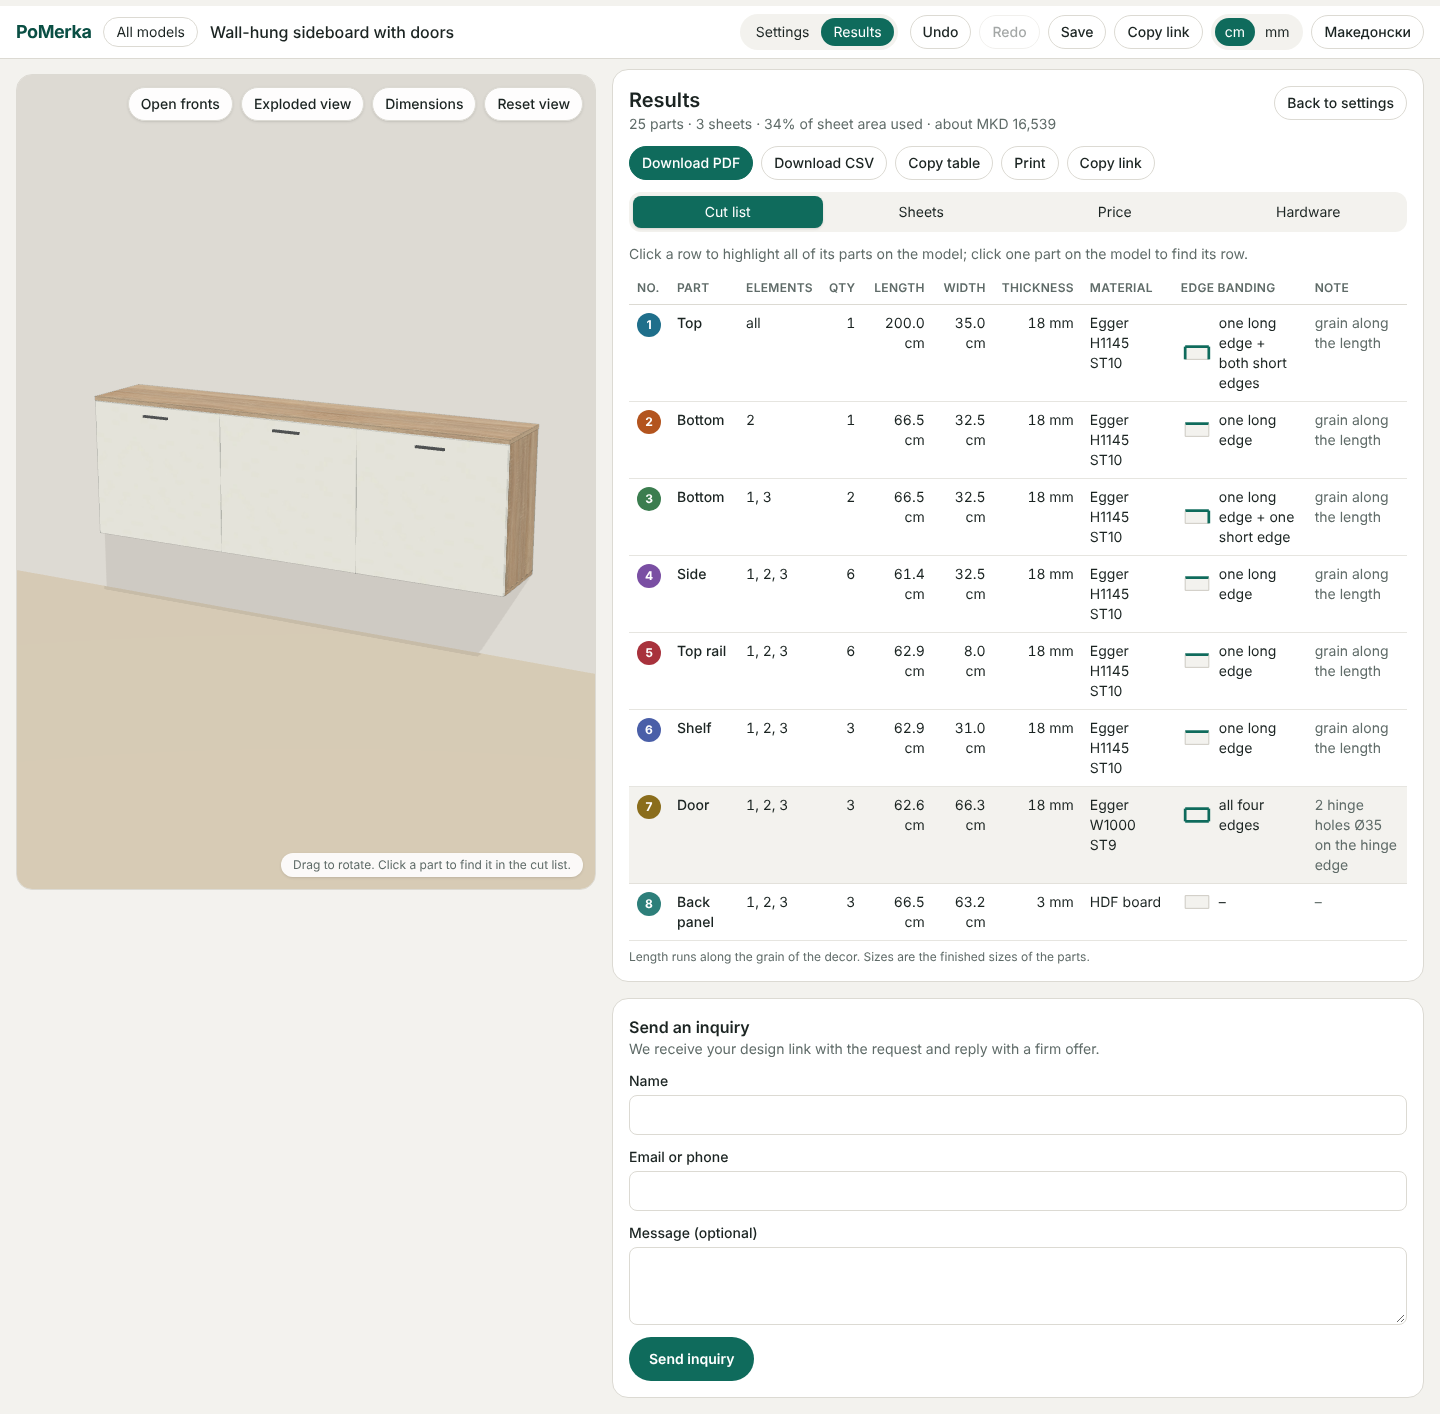
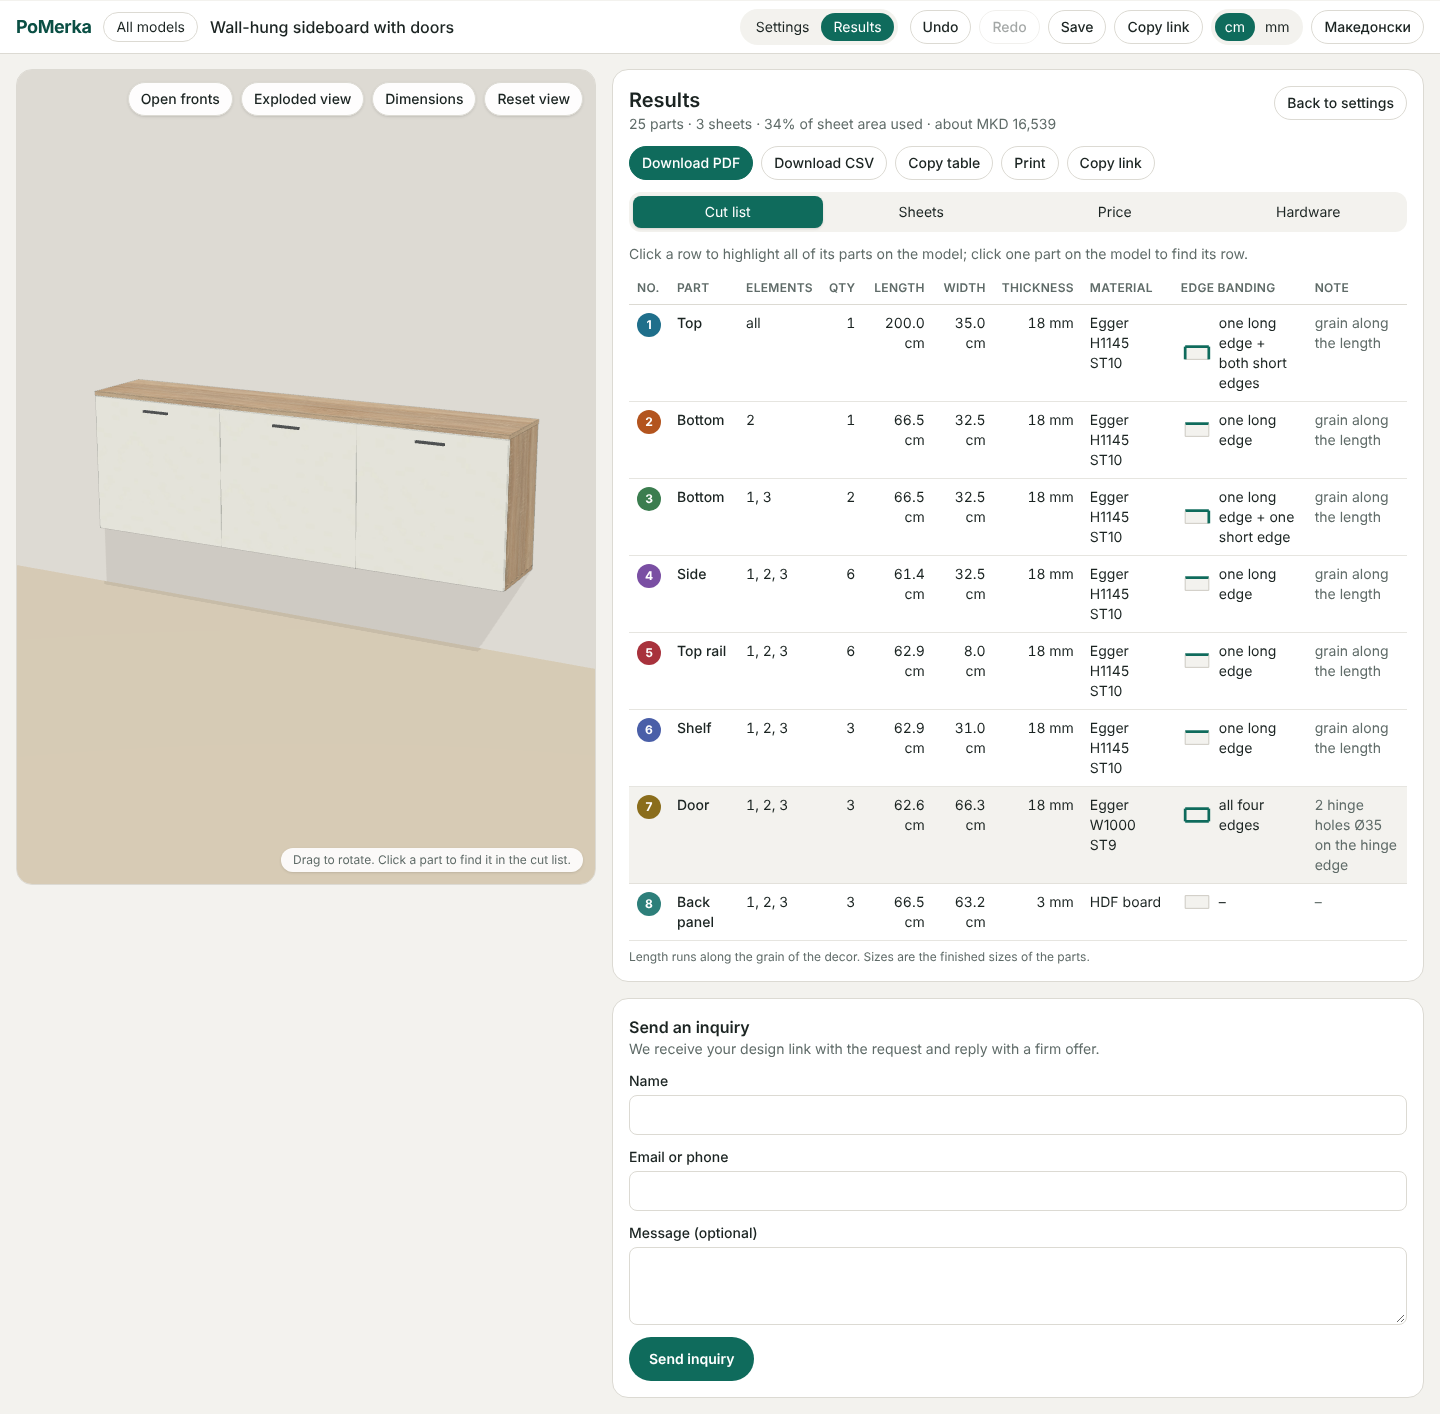
Keep element widths the customer typed when another element changes
Resizing element 2 used to re-spread the difference over every other
element, undoing a width just typed for element 1. Typed widths are now
kept and only the untouched elements take up the change; they give way only
when nothing else can. Each kept element shows a 'Let it adjust' link.

Claude-Session: https://claude.ai/code/session_015wZDanh1oyKGHpGVLFR7yh

diff --git a/src/store/configurator.ts b/src/store/configurator.ts
@@ -24,6 +24,8 @@ interface State {
   /** Part ids highlighted in the viewer and the cut list. */
   selected: string[];
   notices: Notice[];
+  /** Elements whose width the customer typed; later edits leave them alone where possible. */
+  pinned: number[];
   /** Field path → issue, for inputs whose typed value was rejected. */
   errors: Record<string, Issue>;
 
@@ -34,6 +36,7 @@ interface State {
   setElementCount: (count: number) => Issue[];
   setElementWidth: (index: number, width: number) => Issue[];
   equalise: () => void;
+  unpin: (index: number) => void;
   patchElement: (index: number, patch: Partial<ElementConfig>) => Issue[];
   patch: (patch: Partial<Config>) => Issue[];
   undo: () => void;
@@ -68,9 +71,10 @@ export const useConfigurator = create<State>((set, get) => {
     showDimensions: false,
     selected: [],
     notices: [],
+    pinned: [],
     errors: {},
 
-    load: (config, notice) => apply(config, { past: [], future: [], errors: {}, notices: notice ? [notice] : [] }),
+    load: (config, notice) => apply(config, { past: [], future: [], errors: {}, pinned: [], notices: notice ? [notice] : [] }),
 
     commit: (next) => {
       // Dependent values are brought back into range first (and reported), then the result is checked.
@@ -85,12 +89,26 @@ export const useConfigurator = create<State>((set, get) => {
     },
 
     setDimension: (key, value) => {
-      const { config, commit } = get();
+      const { config, commit, pinned } = get();
       if (key !== 'width') return commit({ ...config, [key]: value });
       const p = requireModel(config.model).params;
-      // Keep the customer's proportions when the overall width changes.
-      const widths = scaleWidths(config.elements.map((e) => e.width), value, p.elementMin);
-      return commit({ ...config, width: value, elements: config.elements.map((e, i) => ({ ...e, width: widths[i] ?? e.width })) });
+      const current = config.elements.map((e) => e.width);
+      // Elements the customer sized keep their width; the others take up the change in proportion.
+      const free = current.map((_, i) => i).filter((i) => !pinned.includes(i));
+      let widths: number[] | null = null;
+      if (free.length > 0 && free.length < current.length) {
+        const fixed = current.reduce((s, w, i) => (pinned.includes(i) ? s + w : s), 0);
+        const scaled = scaleWidths(free.map((i) => current[i] as number), value - fixed, p.elementMin);
+        if (value - fixed >= free.length * p.elementMin && scaled.every((w) => w >= p.elementMin && w <= p.elementMax)) {
+          widths = [...current];
+          free.forEach((i, k) => (widths![i] = scaled[k] as number));
+        }
+      }
+      const release = widths === null && pinned.length > 0;
+      widths ??= scaleWidths(current, value, p.elementMin);
+      const issues = commit({ ...config, width: value, elements: config.elements.map((e, i) => ({ ...e, width: widths![i] ?? e.width })) });
+      if (issues.length === 0 && release) set({ pinned: [] });
+      return issues;
     },
 
     setElementCount: (count) => {
@@ -103,25 +121,32 @@ export const useConfigurator = create<State>((set, get) => {
       const widths = distributeEqual(config.width, count);
       const template = model.defaults.elements[0] as ElementConfig;
       const elements = widths.map((width, i) => ({ ...(config.elements[i] ?? { ...template, shelves: Math.min(template.shelves, lim.maxShelves) }), width }));
-      return commit({ ...config, elements });
+      const issues = commit({ ...config, elements });
+      if (issues.length === 0) set({ pinned: [] });
+      return issues;
     },
 
     setElementWidth: (index, width) => {
-      const { config, commit } = get();
+      const { config, commit, pinned } = get();
       const p = requireModel(config.model).params;
-      const widths = resizeElement(config.elements.map((e) => e.width), index, width, p.elementMin);
-      if (!widths) {
-        const max = config.width - (config.elements.length - 1) * p.elementMin;
-        return [{ code: 'elementMin', path: `elements.${index}.width`, params: { min: p.elementMin, max } }];
+      const result = resizeElement(config.elements.map((e) => e.width), index, width, p.elementMin, pinned, p.elementMax);
+      if (!result) {
+        const max = Math.min(p.elementMax, config.width - (config.elements.length - 1) * p.elementMin);
+        return [{ code: width > p.elementMax ? 'elementMax' : 'elementMin', path: `elements.${index}.width`, params: { min: p.elementMin, max } }];
       }
-      return commit({ ...config, elements: config.elements.map((e, i) => ({ ...e, width: widths[i] ?? e.width })) });
+      const issues = commit({ ...config, elements: config.elements.map((e, i) => ({ ...e, width: result.widths[i] ?? e.width })) });
+      if (issues.length === 0) set({ pinned: result.released ? [index] : [...pinned.filter((i) => i !== index), index] });
+      return issues;
     },
 
     equalise: () => {
       const { config, commit } = get();
       const widths = distributeEqual(config.width, config.elements.length);
       commit({ ...config, elements: config.elements.map((e, i) => ({ ...e, width: widths[i] ?? e.width })) });
+      set({ pinned: [] });
     },
+
+    unpin: (index) => set((s) => ({ pinned: s.pinned.filter((i) => i !== index) })),
 
     patchElement: (index, patch) => {
       const { config, commit } = get();
@@ -134,14 +159,14 @@ export const useConfigurator = create<State>((set, get) => {
       const { past, future, config } = get();
       const previous = past[past.length - 1];
       if (!previous) return;
-      apply(previous, { past: past.slice(0, -1), future: [config, ...future], notices: [], errors: {} });
+      apply(previous, { past: past.slice(0, -1), future: [config, ...future], notices: [], errors: {}, pinned: [] });
     },
 
     redo: () => {
       const { past, future, config } = get();
       const next = future[0];
       if (!next) return;
-      apply(next, { past: [...past, config], future: future.slice(1), notices: [], errors: {} });
+      apply(next, { past: [...past, config], future: future.slice(1), notices: [], errors: {}, pinned: [] });
     },
 
     setError: (path, issue) =>

diff --git a/src/engine/rules.ts b/src/engine/rules.ts
@@ -258,26 +258,48 @@ export function scaleWidths(widths: number[], total: number, min: number): numbe
   return scaled.every((w) => w >= min) ? scaled : distributeEqual(total, widths.length);
 }
 
-/**
- * Set one element's width and spread the difference evenly over the others,
- * so the widths still add up. Returns null when another element would fall
- * below the minimum.
- */
-export function resizeElement(widths: number[], index: number, width: number, min: number): number[] | null {
-  const others = widths.length - 1;
-  if (others === 0 || width < min) return null;
-  const delta = width - (widths[index] ?? 0);
-  const each = Math.trunc(delta / others);
-  let rest = delta - each * others;
+/** Spread `delta` (positive = take away) evenly over the elements at `indices`, a millimetre at a time for the remainder. */
+function spread(widths: number[], indices: number[], delta: number): number[] {
+  const next = [...widths];
+  const each = Math.trunc(delta / indices.length);
+  let rest = delta - each * indices.length;
   const step = Math.sign(rest);
-  const next = widths.map((w, i) => {
-    if (i === index) return width;
-    let value = w - each;
+  for (const i of indices) {
+    next[i] = (next[i] ?? 0) - each;
     if (rest !== 0) {
-      value -= step;
+      next[i] = (next[i] ?? 0) - step;
       rest -= step;
     }
-    return value;
-  });
-  return next.every((w) => w >= min) ? next : null;
+  }
+  return next;
+}
+
+/**
+ * Set one element's width and spread the difference over the others so the
+ * widths still add up. Elements the customer already sized (`pinned`) keep
+ * their width when that is possible; only when the free elements cannot
+ * absorb the change are the pinned ones adjusted too, and `released` says so.
+ * Returns null when no split keeps every element within its limits.
+ */
+export function resizeElement(
+  widths: number[],
+  index: number,
+  width: number,
+  min: number,
+  pinned: number[] = [],
+  max = Infinity,
+): { widths: number[]; released: boolean } | null {
+  if (widths.length < 2 || width < min || width > max) return null;
+  const delta = width - (widths[index] ?? 0);
+  const ok = (ws: number[]) => ws.every((w) => w >= min && w <= max);
+  const free = widths.map((_, i) => i).filter((i) => i !== index && !pinned.includes(i));
+  if (free.length > 0) {
+    const next = spread(widths, free, delta);
+    next[index] = width;
+    if (ok(next)) return { widths: next, released: false };
+  }
+  const others = widths.map((_, i) => i).filter((i) => i !== index);
+  const next = spread(widths, others, delta);
+  next[index] = width;
+  return ok(next) ? { widths: next, released: others.some((i) => pinned.includes(i)) } : null;
 }

diff --git a/src/components/steps/Steps.tsx b/src/components/steps/Steps.tsx
@@ -38,6 +38,8 @@ function Elements() {
   const setElementCount = useConfigurator((s) => s.setElementCount);
   const setElementWidth = useConfigurator((s) => s.setElementWidth);
   const equalise = useConfigurator((s) => s.equalise);
+  const pinned = useConfigurator((s) => s.pinned);
+  const unpin = useConfigurator((s) => s.unpin);
   const n = config.elements.length;
   const equal = Math.max(...config.elements.map((e) => e.width)) - Math.min(...config.elements.map((e) => e.width)) <= 1;
   return (
@@ -51,9 +53,20 @@ function Elements() {
       </div>
       <div className="grid gap-3 sm:grid-cols-2">
         {config.elements.map((e, i) => (
-          <NumberField key={i} path={`elements.${i}.width`} label={t('widthOf', { n: i + 1 })} value={e.width} min={lim.elementWidth.min} max={lim.elementWidth.max} onCommit={(v) => setElementWidth(i, v)} />
+          <div key={i} className="grid gap-1">
+            <NumberField path={`elements.${i}.width`} label={t('widthOf', { n: i + 1 })} value={e.width} min={lim.elementWidth.min} max={lim.elementWidth.max} onCommit={(v) => setElementWidth(i, v)} />
+            {pinned.includes(i) && config.elements.length > 1 && (
+              <p className="flex items-center gap-2 text-xs text-muted" data-testid={`pinned-${i}`}>
+                <span>{t('pinned')}</span>
+                <button type="button" className="font-medium text-accent underline-offset-2 hover:underline" onClick={() => unpin(i)}>
+                  {t('unpin')}
+                </button>
+              </p>
+            )}
+          </div>
         ))}
       </div>
+      {config.elements.length > 2 && <p className="text-sm text-muted">{t('pinHelp')}</p>}
       <button type="button" className="justify-self-start rounded-full border border-line px-4 py-2 text-sm font-medium hover:border-accent hover:text-accent disabled:opacity-40" disabled={equal} onClick={equalise}>
         {t('equalise')}
       </button>

diff --git a/tests/unit/engine.test.ts b/tests/unit/engine.test.ts
@@ -393,9 +393,17 @@ describe('element width helpers', () => {
     expect(distributeEqual(1651, 3)).toEqual([551, 550, 550]);
   });
   it('resizes one element and spreads the difference', () => {
-    expect(resizeElement([550, 550, 550], 0, 700, 250)).toEqual([700, 475, 475]);
+    expect(resizeElement([550, 550, 550], 0, 700, 250)).toEqual({ widths: [700, 475, 475], released: false });
     expect(resizeElement([550, 550, 550], 0, 1200, 250)).toBeNull();
-    expect(resizeElement([550, 550, 550], 1, 551, 250)!.reduce((s, w) => s + w, 0)).toBe(1650);
+    expect(resizeElement([550, 550, 550], 1, 551, 250)!.widths.reduce((s, w) => s + w, 0)).toBe(1650);
+  });
+  it('keeps widths the customer already set', () => {
+    // Element 1 was set to 538; now element 2 is set to 500: only element 3 moves.
+    expect(resizeElement([538, 556, 556], 1, 500, 250, [0])).toEqual({ widths: [538, 500, 612], released: false });
+    // When the free elements cannot take the change, the pinned ones give way and the caller is told.
+    expect(resizeElement([700, 600, 350], 1, 800, 250, [0])).toEqual({ widths: [600, 800, 250], released: true });
+    expect(resizeElement([600, 600], 0, 700, 250, [1])).toEqual({ widths: [700, 500], released: true });
+    expect(resizeElement([400, 400, 400], 0, 500, 250, [], 450)).toBeNull();
   });
   it('scales proportionally and keeps the sum', () => {
     const scaled = scaleWidths([700, 475, 475], 1800, 250);

diff --git a/tests/e2e/select.spec.ts b/tests/e2e/select.spec.ts
@@ -30,3 +30,23 @@ test('an uneven width still gives one row per identical part, with the elements 
   await expect(page.getByTestId('cut-list').locator('td[data-elements="0,1,2"]')).toHaveCount(5);
   await page.screenshot({ path: 'docs/screenshots/18-cut-list-elements.png', fullPage: true });
 });
+
+test('a width typed for one element is kept when the next element is changed', async ({ page }) => {
+  await page.goto('/en/configurator/sideboard-1');
+  await page.locator('[data-testid="viewer"][data-ready="1"]').waitFor({ timeout: 60_000 });
+  await page.getByTestId('step-2').getByRole('button', { name: 'Elements' }).click();
+  const field = (n: number) => page.getByRole('textbox', { name: `Width of element ${n}`, exact: true });
+  await field(1).fill('53.8');
+  await field(1).blur();
+  await field(2).fill('50');
+  await field(2).blur();
+  await expect(field(1)).toHaveValue('53.8');
+  await expect(field(2)).toHaveValue('50.0');
+  await expect(field(3)).toHaveValue('61.2');
+  await expect(page.getByTestId('pinned-0')).toBeVisible();
+  await page.getByTestId('pinned-0').getByRole('button', { name: 'Let it adjust' }).click();
+  await field(3).fill('55');
+  await field(3).blur();
+  await expect(field(2)).toHaveValue('50.0');
+  await expect(field(1)).toHaveValue('60.0');
+});

diff --git a/docs/assumptions.md b/docs/assumptions.md
@@ -61,6 +61,12 @@ Deliberate differences:
 - **Depth minimum is 150 mm** (reference: 50 mm, which leaves a 25 mm carcass).
 - **Changing the total width keeps element proportions** instead of resetting
   them to equal widths.
+- **Typed element widths are kept.** Once the customer types an element's
+  width, later edits to other elements (or to the total width) are absorbed
+  by the elements not yet typed. Only if those cannot take the change
+  without going below the minimum do the typed ones adjust too. "Let it
+  adjust" releases one element; Equalise, a new element count, undo and
+  redo release all.
 - **Reducing height clamps shelves and says so**; undo restores them.
 - **Join allowance** (1 mm per carcass from 3 elements) is kept, but the slack
   is split left/right instead of all on the right.
